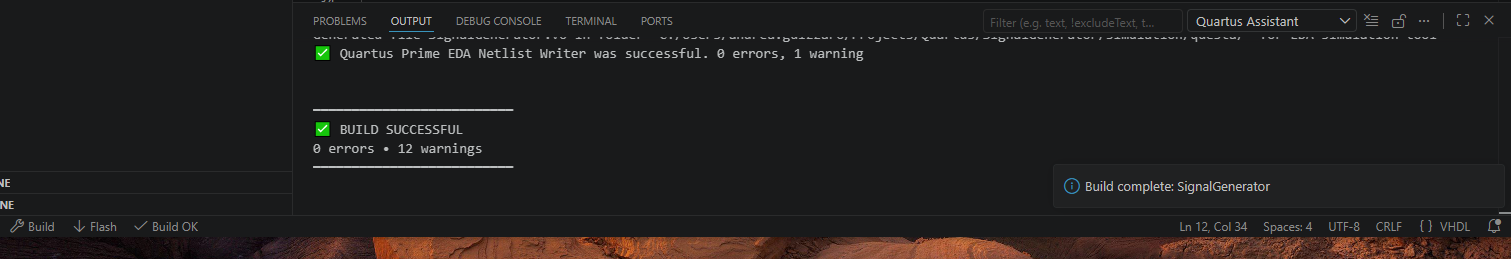
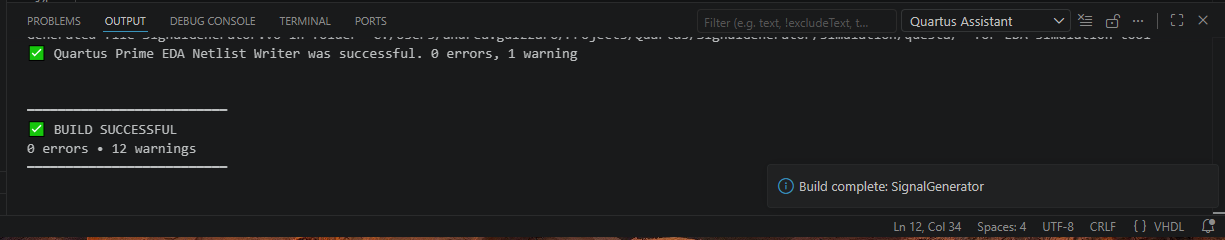
chore: update README screenshot ref, optimize build_2.png, cleanup resources/screen/

diff --git a/README.md b/README.md
@@ -6,7 +6,7 @@
 
 Complete Quartus + VHDL workflow integration for Visual Studio Code.
 
-<img src="resources/screen/panel.png" width="600" alt="Panel View">
+<img src="resources/screen/entity_drop.png" width="600" alt="Entity drop">
 
 VHDL Essentials brings FPGA development directly into VSCode with Quartus build/flash integration, QuestaSim workflow support, VHDL entity/package navigation, FPGA pin diagnostics, QSF integration, real-time linting, semantic highlighting, and workspace-wide indexing.
 
